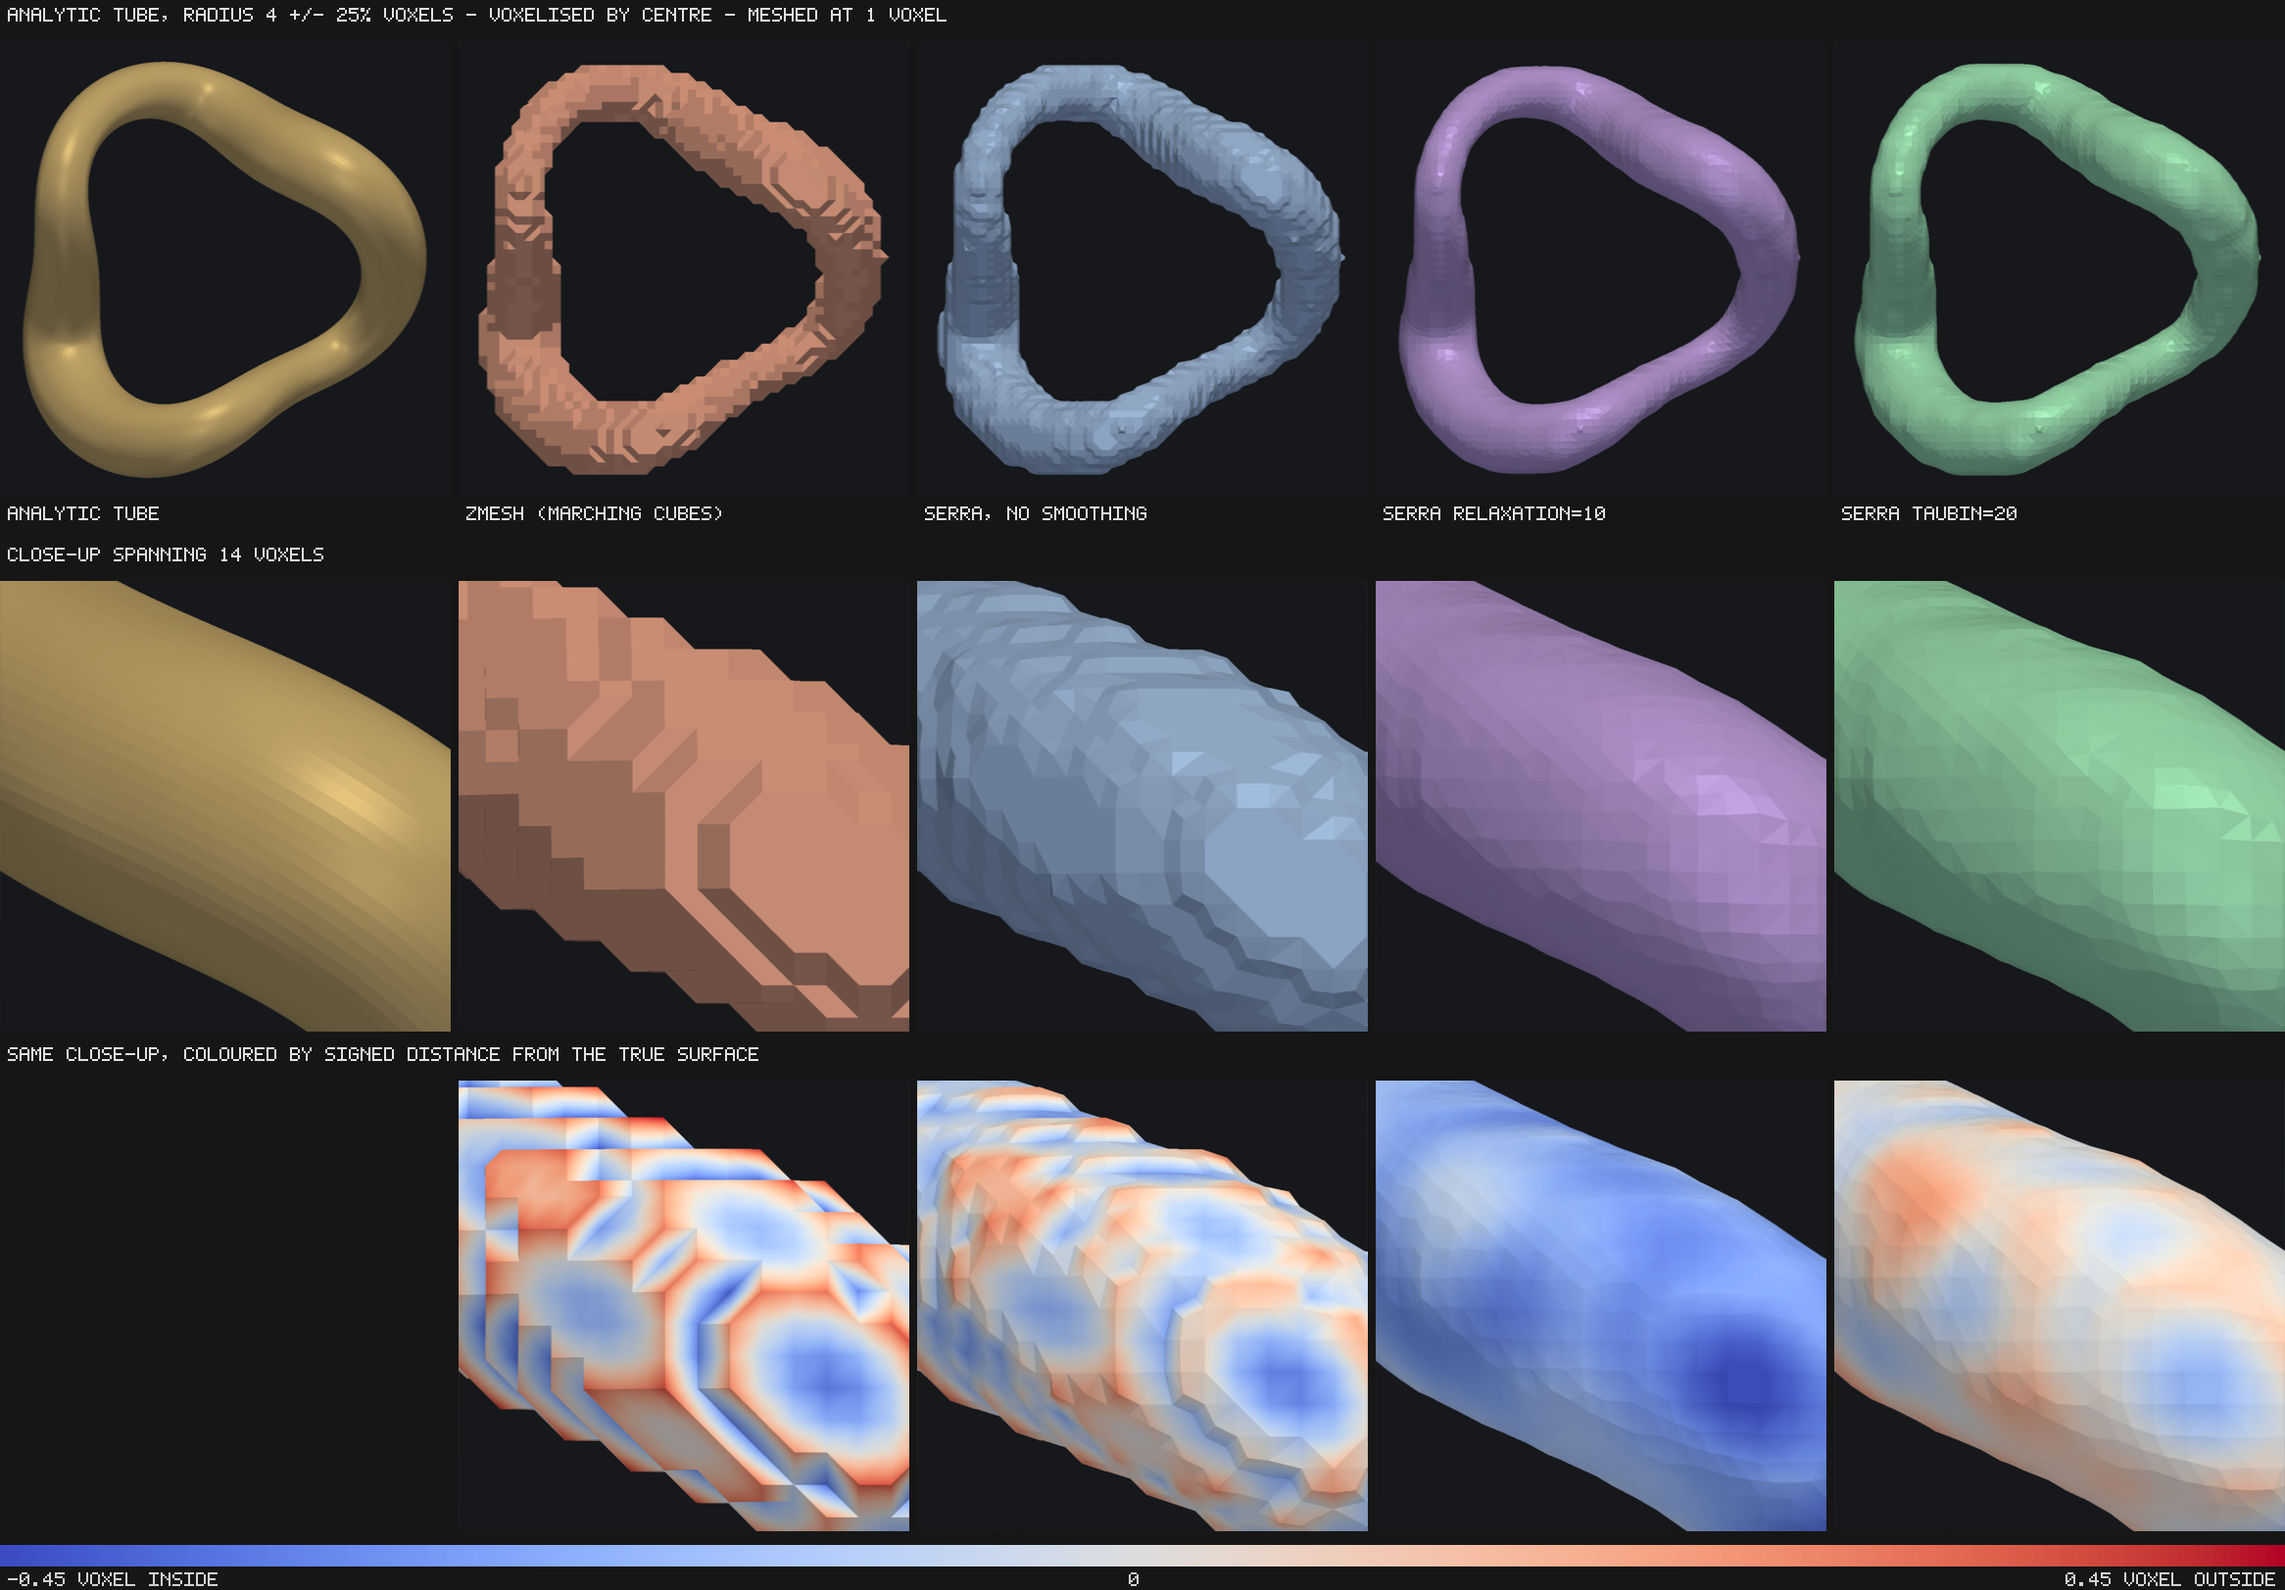
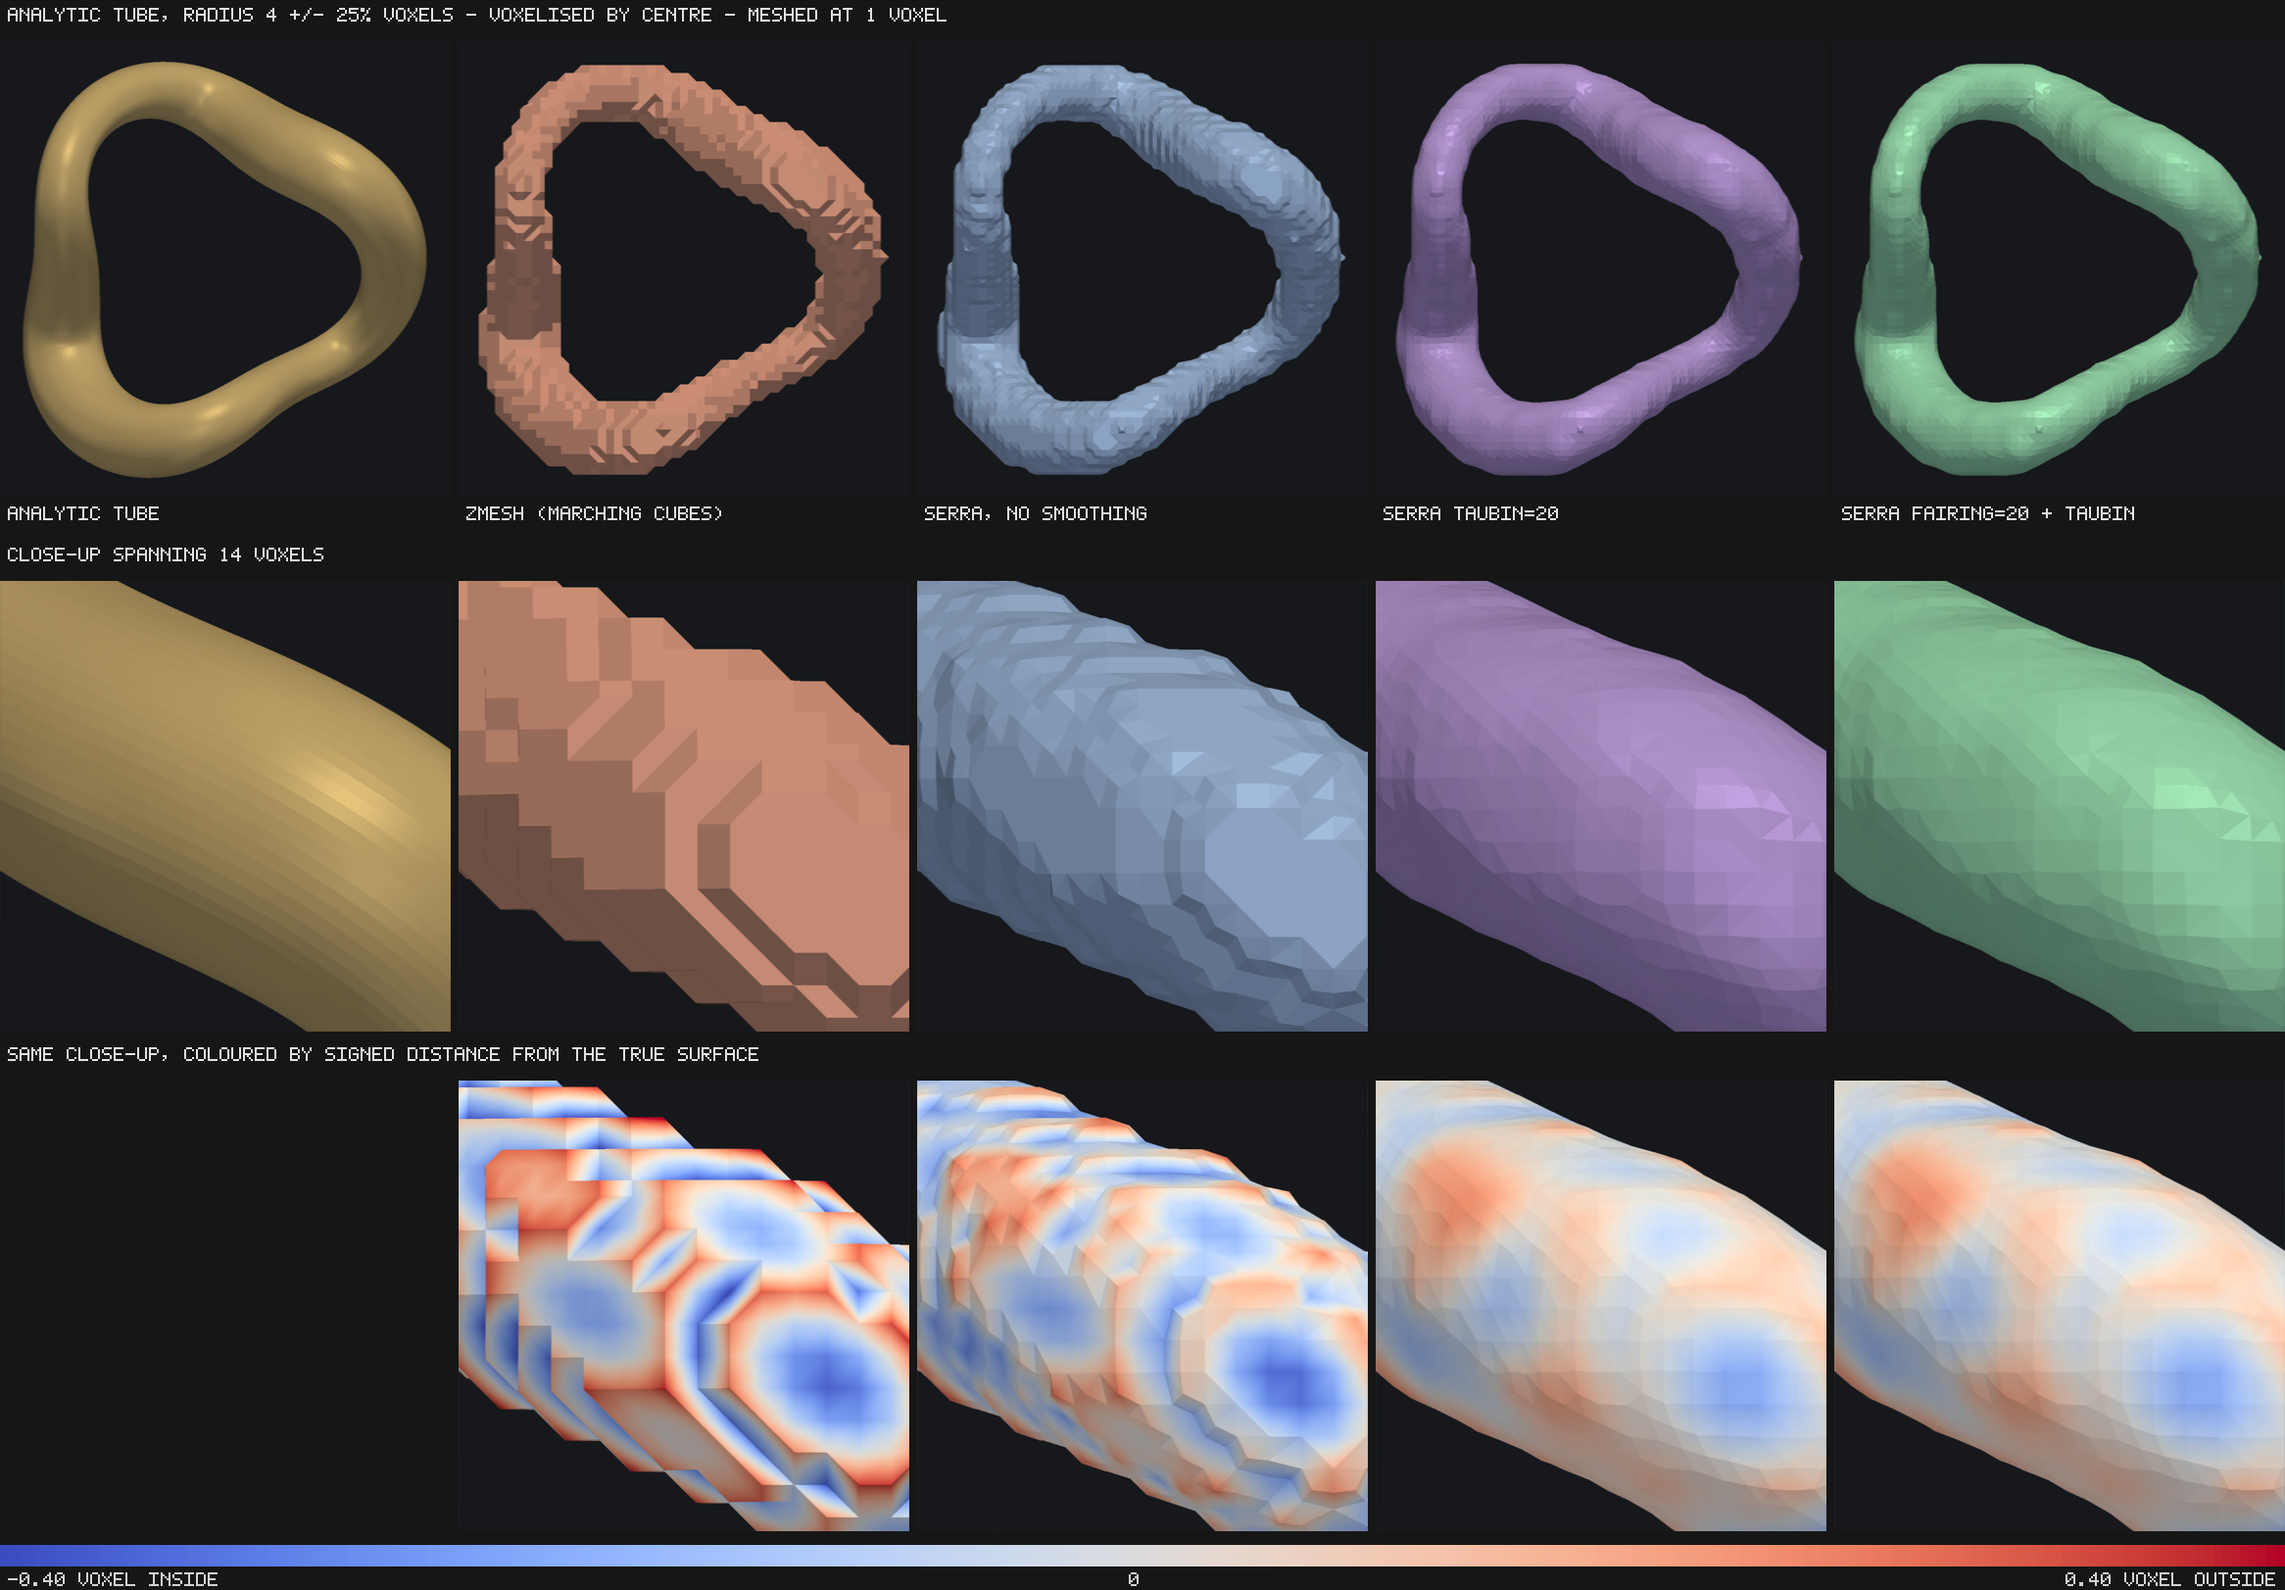
docs: put cell-domain fairing in the analytic comparison, drop the Laplacian
The analytic-tube figures and tables predated this branch entirely --
bench/analytic_tube.py had no mention of fairing, and the panels showed zmesh,
no smoothing, relaxation=10 and taubin=20. Regenerated at all three radii with
a fairing panel.

The result is agreement, and that is what it is there for. On a radius-4 tube
fairing=20 + taubin scores 0.0679 voxels of mean surface error against
taubin=20's 0.0679, IoU 96.85% against 96.85%. An analytic tube is one object,
and on one object the cell domain and the label domain are the same graph, so
anything other than a match would mean the implementation was wrong. What the
cell domain actually buys -- adjacent objects that cannot drift apart -- a
one-object fixture structurally cannot show, and the neuropil measurements are
where that lives.

Laplacian smoothing is out of the comparison, in both its per-label form
(relaxation) and its cell-domain one (fairing without Taubin steps). They are
the same operator in two domains and both shrink: 12% and 15% of a radius-4 tube
at 20 sweeps, 41% of a radius-2 one. A comparison table is for the options
somebody would choose between, so the numbers stay as a warning rather than a
row.

Also updates the README, which still recommended relaxation=3 and did not
mention fairing at all, and closes the open-work note in references.md that this
branch resolves.

diff --git a/bench/analytic_tube.py b/bench/analytic_tube.py
@@ -445,10 +445,23 @@ def main() -> int:
             ]
         ]
         variants += [("serra, no smoothing", {})]
-        variants += [
-            (f"serra relaxation={k}", dict(relaxation=k)) for k in (1, 3, 5, 10)
-        ]
+        # Plain Laplacian smoothing is deliberately absent, in both its
+        # per-label form (`relaxation`) and its cell-domain one (`fairing`
+        # without Taubin steps). Both shrink -- 12% and 15% of a radius-4 tube
+        # at 20 sweeps, 41% of a radius-2 one -- so neither is worth
+        # recommending, and a comparison table is for the options you would
+        # actually pick between. The measurements are kept in docs/accuracy.md,
+        # which is the right place for evidence about what not to do.
         variants += [(f"serra taubin={k}", dict(taubin=k)) for k in (3, 10, 20, 40)]
+        # Cell-domain fairing: one shared position per cell rather than one per
+        # label. On a single object -- which is all an analytic tube is -- it
+        # should land on top of the per-label filters, because the two domains
+        # are the same graph when only one label is present. That agreement is
+        # the check; the reason to prefer it shows up only where objects touch.
+        variants += [
+            (f"serra fairing={k} + taubin", dict(fairing=k, fairing_taubin=True))
+            for k in (10, 20, 40)
+        ]
 
         print(
             f"\n{'mesh':>26} {'faces':>9} {'|error|':>9} {'bias':>9} {'p95':>8} "
@@ -504,8 +517,8 @@ def main() -> int:
             wanted = [
                 "zmesh (marching cubes)",
                 "serra, no smoothing",
-                "serra relaxation=10",
                 "serra taubin=20",
+                "serra fairing=20 + taubin",
             ]
             render_figure(
                 tube,

diff --git a/docs/accuracy.md b/docs/accuracy.md
@@ -153,21 +153,34 @@ quantisation noise and there is no real detail to destroy.
 
 | radius 4 voxels | faces | mean \|error\| | bias | volume | IoU |
 | --- | --- | --- | --- | --- | --- |
-| zmesh (marching cubes) | 13,504 | 0.141 vx | −0.021 | −1.18% | 93.34% |
-| serra, no smoothing | 13,504 | 0.109 vx | −0.043 | −2.15% | 94.77% |
-| `relaxation=3` | 13,504 | 0.123 vx | −0.111 | −5.29% | 94.11% |
-| `relaxation=10` | 13,504 | 0.264 vx | −0.261 | −12.23% | 87.60% |
-| `taubin=10` | 13,504 | 0.078 vx | −0.026 | −1.25% | 96.25% |
-| `taubin=20` | 13,504 | **0.068 vx** | **−0.009** | **−0.40%** | **96.75%** |
-| `taubin=40` | 13,504 | 0.066 vx | +0.025 | +1.28% | 96.81% |
+| zmesh (marching cubes) | 13,504 | 0.141 vx | −0.021 | −1.18% | 93.48% |
+| serra, no smoothing | 13,504 | 0.109 vx | −0.043 | −2.15% | 94.99% |
+| `taubin=10` | 13,504 | 0.078 vx | −0.026 | −1.25% | 96.39% |
+| `taubin=20` | 13,504 | 0.068 vx | −0.009 | −0.40% | 96.85% |
+| `fairing=10 + taubin` | 13,504 | 0.078 vx | −0.026 | −1.26% | 96.39% |
+| **`fairing=20 + taubin`** | 13,504 | **0.068 vx** | **−0.010** | **−0.42%** | **96.85%** |
+| `fairing=40 + taubin` | 13,504 | 0.063 vx | +0.021 | +1.08% | 96.98% |
 
-**Taubin recovers the smooth surface.** Mean error falls 38%, and the bias
-converges on zero — at `taubin=20` the surface is unbiased to within a hundredth
-of a voxel and the enclosed volume is within 0.4% of analytic. **Laplacian
-relaxation moves the wrong way** on every column past `k=1`. The bottom row of
-the figure shows why: relaxation's error map is uniformly blue, the whole
-surface having migrated inside the true one, while Taubin's is balanced about
-zero.
+**Smoothing recovers the surface downsampling hid.** Mean error falls 38% and
+the bias converges on zero — at 20 sweeps the surface is unbiased to within a
+hundredth of a voxel and the enclosed volume is within half a percent of
+analytic.
+
+**The cell domain and the label domain agree to three decimal places**, which is
+the point of running it here. An analytic tube is a single object, and on a
+single object the two are the same graph, so anything other than agreement would
+mean the cell-domain implementation was wrong. What it buys — adjacent objects
+that cannot drift apart — a one-object fixture structurally cannot show; that is
+measured on real neuropil below.
+
+!!! warning "Plain Laplacian smoothing is not in this table"
+
+    Neither `relaxation=k` nor `fairing=k` without Taubin steps appears here,
+    because neither is worth recommending: both shrink. At 20 sweeps on this
+    tube they lose 12% and 15% of the volume respectively, and 41% at radius 2.
+    They are the same operator in two different domains. The numbers are kept
+    under [thin structures](#thin-structures-decide-it) as evidence of what to
+    avoid, not offered as a choice.
 
 ### Thin structures decide it
 
@@ -175,25 +188,33 @@ The same experiment at three radii — mean surface error in voxels, then IoU:
 
 | | r=2 | r=4 | r=8 | | r=2 | r=4 | r=8 |
 | --- | --- | --- | --- | --- | --- | --- | --- |
-| zmesh | 0.145 | 0.141 | 0.147 | | 86.7% | 93.3% | 96.7% |
-| no smoothing | 0.127 | 0.109 | 0.107 | | 87.9% | 94.8% | 97.6% |
-| `relaxation=3` | 0.217 | 0.123 | **0.087** | | 79.8% | 94.1% | 98.0% |
-| `relaxation=10` | **0.475** | 0.264 | 0.156 | | **59.1%** | 87.6% | 96.3% |
-| `taubin=20` | 0.087 | 0.068 | 0.067 | | 91.7% | 96.8% | 98.4% |
-| `taubin=40` | **0.082** | **0.066** | **0.065** | | **92.3%** | **96.8%** | **98.5%** |
+| zmesh | 0.145 | 0.141 | 0.147 | | 86.8% | 93.5% | 96.7% |
+| no smoothing | 0.127 | 0.109 | 0.107 | | 87.9% | 95.0% | 97.6% |
+| `taubin=20` | 0.087 | 0.068 | 0.067 | | 91.9% | 96.8% | 98.5% |
+| `fairing=20 + taubin` | 0.087 | 0.068 | 0.068 | | 91.9% | 96.9% | 98.5% |
+| **`fairing=40 + taubin`** | **0.079** | **0.063** | **0.063** | | **92.6%** | **97.0%** | **98.5%** |
+
+For scale, the Laplacian settings left out of this table: `relaxation=3` scores
+0.217 / 0.123 / 0.087 and `relaxation=10` scores 0.475 / 0.264 / 0.156, with IoU
+falling to **59.1%** at radius 2. That is the shrinkage, and it is worst exactly
+where connectomics lives.
 
 ![analytic tube, radius 2](images/analytic_tube_r2.png)
 
-On a radius-8 tube `relaxation=3` is the best Laplacian setting and genuinely
-good — 0.087 voxels, better than not smoothing. On a radius-2 tube the same
-setting is worse than not smoothing, and `relaxation=10` removes **41% of the
-volume** and drops IoU to 59%. The cost is a roughly fixed depth taken off every
-surface, so it scales as 1/r and thin processes pay in proportion; Taubin's
-advantage grows in the same direction.
+Read down the radius columns rather than across the rows. Every method improves
+as the tube thickens, but they do not improve at the same rate: at radius 8 even
+plain `relaxation=3` is respectable at 0.087 voxels, while at radius 2 it is
+*worse than not smoothing at all* and `relaxation=10` removes **41% of the
+volume**. Laplacian smoothing takes a roughly fixed depth off every surface, so
+the relative cost scales as 1/r and thin processes pay for it in proportion.
+Taubin's shrink compensation removes that term, which is why its advantage grows
+in the same direction the Laplacian's damage does.
 
-For connectomics that is the operating regime — a spine neck at 32 nm voxels is
-two or three voxels across. **Use `taubin` on anything thin; `relaxation` is
-only safe on large objects.**
+For connectomics that is the whole operating regime — a spine neck at 32 nm
+voxels is two or three voxels across. **Use `fairing` with Taubin steps.** The
+per-label `taubin` is equivalent on isolated objects and only differs where
+objects touch, and plain Laplacian smoothing should not be used on thin
+structures at all.
 
 Two other things the analytic reference settles:
 

diff --git a/README.md b/README.md
@@ -50,18 +50,26 @@ while maintaining reproducible vertices at chunk boundaries to facilitate
 large scale mesh generation via chunking. Dual contouring reads two cell layers
 per face, so one voxel of halo is not enough — see [docs/chunked.md](docs/chunked.md).)
 
-Two smoothing filters are available, both bounded by `max_deviation` and both
-safe to run per chunk because they pin seam vertices:
+Smoothing is optional, bounded by `max_deviation`, and safe to run per chunk
+because seam vertices are pinned:
 
 ```python
-serra_mesh.Mesher(relaxation=3)   # constrained Laplacian — cheap, but it shrinks
-serra_mesh.Mesher(taubin=10)      # low-pass — holds volume, costs more passes
+serra_mesh.Mesher(fairing=20, fairing_taubin=True)   # recommended
+serra_mesh.Mesher(taubin=20)                         # same filter, per label
 ```
 
-On real neuropil, `relaxation=3` loses 2.5% of an object's volume and
-`relaxation=10` loses 7%; `taubin` loses none. Prefer `taubin` when the meshes
-will be measured. See [docs/accuracy.md](docs/accuracy.md) for the full
-comparison and what each costs.
+**Prefer `fairing`.** It is Frisken's surface fairing: one position per *cell*,
+shared by every label present there, rather than a private copy per label. The
+accuracy is identical — 0.068 voxels of mean surface error against an analytic
+tube either way — but smoothing each label separately pulls the two copies of a
+wall between touching objects apart, by up to 2.2 voxels on real neuropil, and
+the segmentation stops being a partition of space. Sharing the cell makes that
+impossible: the copies are one number, not two that started equal.
+
+There is also `relaxation=k`, a plain Laplacian. **It is not recommended**: it
+shrinks, losing 2.5% of an object's volume at `k=3`, 7% at `k=10`, and 41% of a
+two-voxel-radius tube. It is kept because it is cheap and harmless on large
+objects. See [docs/accuracy.md](docs/accuracy.md).
 
 ## How it looks
 

diff --git a/docs/references.md b/docs/references.md
@@ -34,11 +34,16 @@ paper:
   materials are present. Its vertex splitting is a different mechanism, for a
   different purpose — keeping each label's own surface 2-manifold where its
   voxel set touches itself only diagonally.
-- **Fairing is per object, not per cell.** Frisken relaxes one position per
-  cell, shared by every label there. serra relaxes each label's mesh
-  independently, so a wall between two touching objects drifts apart. Now
-  measured: up to 2.2 voxels, 71 nm, on real neuropil, where 88.6% of vertex
-  positions are shared between labels. See [Related work](related-work.md).
+- **Fairing was per object rather than per cell**, and now can be either.
+  Frisken fairs one position per cell, shared by every label there; serra's
+  original `relaxation` and `taubin` fair each label's mesh independently, so a
+  wall between two touching objects drifts apart — measured at up to 2.2 voxels,
+  71 nm, on real neuropil, where 88.6% of vertex positions are shared between
+  labels. `fairing=k` implements the paper's formulation and reduces that to
+  exactly zero. Two deliberate departures remain: faces with no crossing are
+  excluded from the stencil, because the literal rule welds a one-voxel sheet
+  shut, and the cell bound is intersected with `max_deviation` rather than
+  replacing it.
 - **Fixed-point vertex positions**, integers in units of 1/256 of a voxel, and
   **pinned seam vertices during fairing**. Together these make a seam cell's
   vertex bit-identical in every chunk that contains it and keep a chunk's mesh
